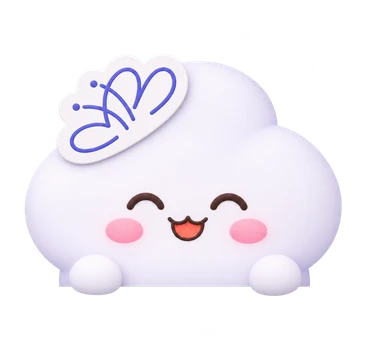
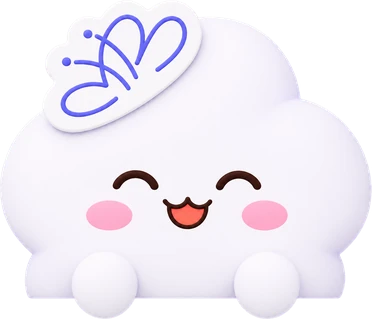
💄STYLE: 솜솜이 최종 그림으로 교체 — 홈 빼꼼(somsom-face)은 손이 카드 윗선에 걸치게 위치 보정, 빈 목록은 손 없는 얼굴 그림(somsom-empty)으로 분리, 둘 다 잿빛 보라 기를 빼 조금 더 하얗게

diff --git a/frontend/src/components/EmptyState.tsx b/frontend/src/components/EmptyState.tsx
@@ -12,7 +12,7 @@ type Props = {
 export default function EmptyState({ title, description, action }: Props) {
   return (
     <div className={styles.empty}>
-      <img className={styles.art} src="/brand/somsom-face.webp" alt="" />
+      <img className={styles.art} src="/brand/somsom-empty.webp" alt="" />
       <div>
         <p className="strong">{title}</p>
         {description && <p className="meta">{description}</p>}

diff --git a/frontend/src/pages/HomePage.module.css b/frontend/src/pages/HomePage.module.css
@@ -59,7 +59,7 @@
   position: absolute;
   z-index: 1;
   right: 22px;
-  top: -90px;
+  top: -95px; /* 손 가운데가 기간 카드 윗선에 걸치게 */
   width: 124px;
   pointer-events: none;
 }
